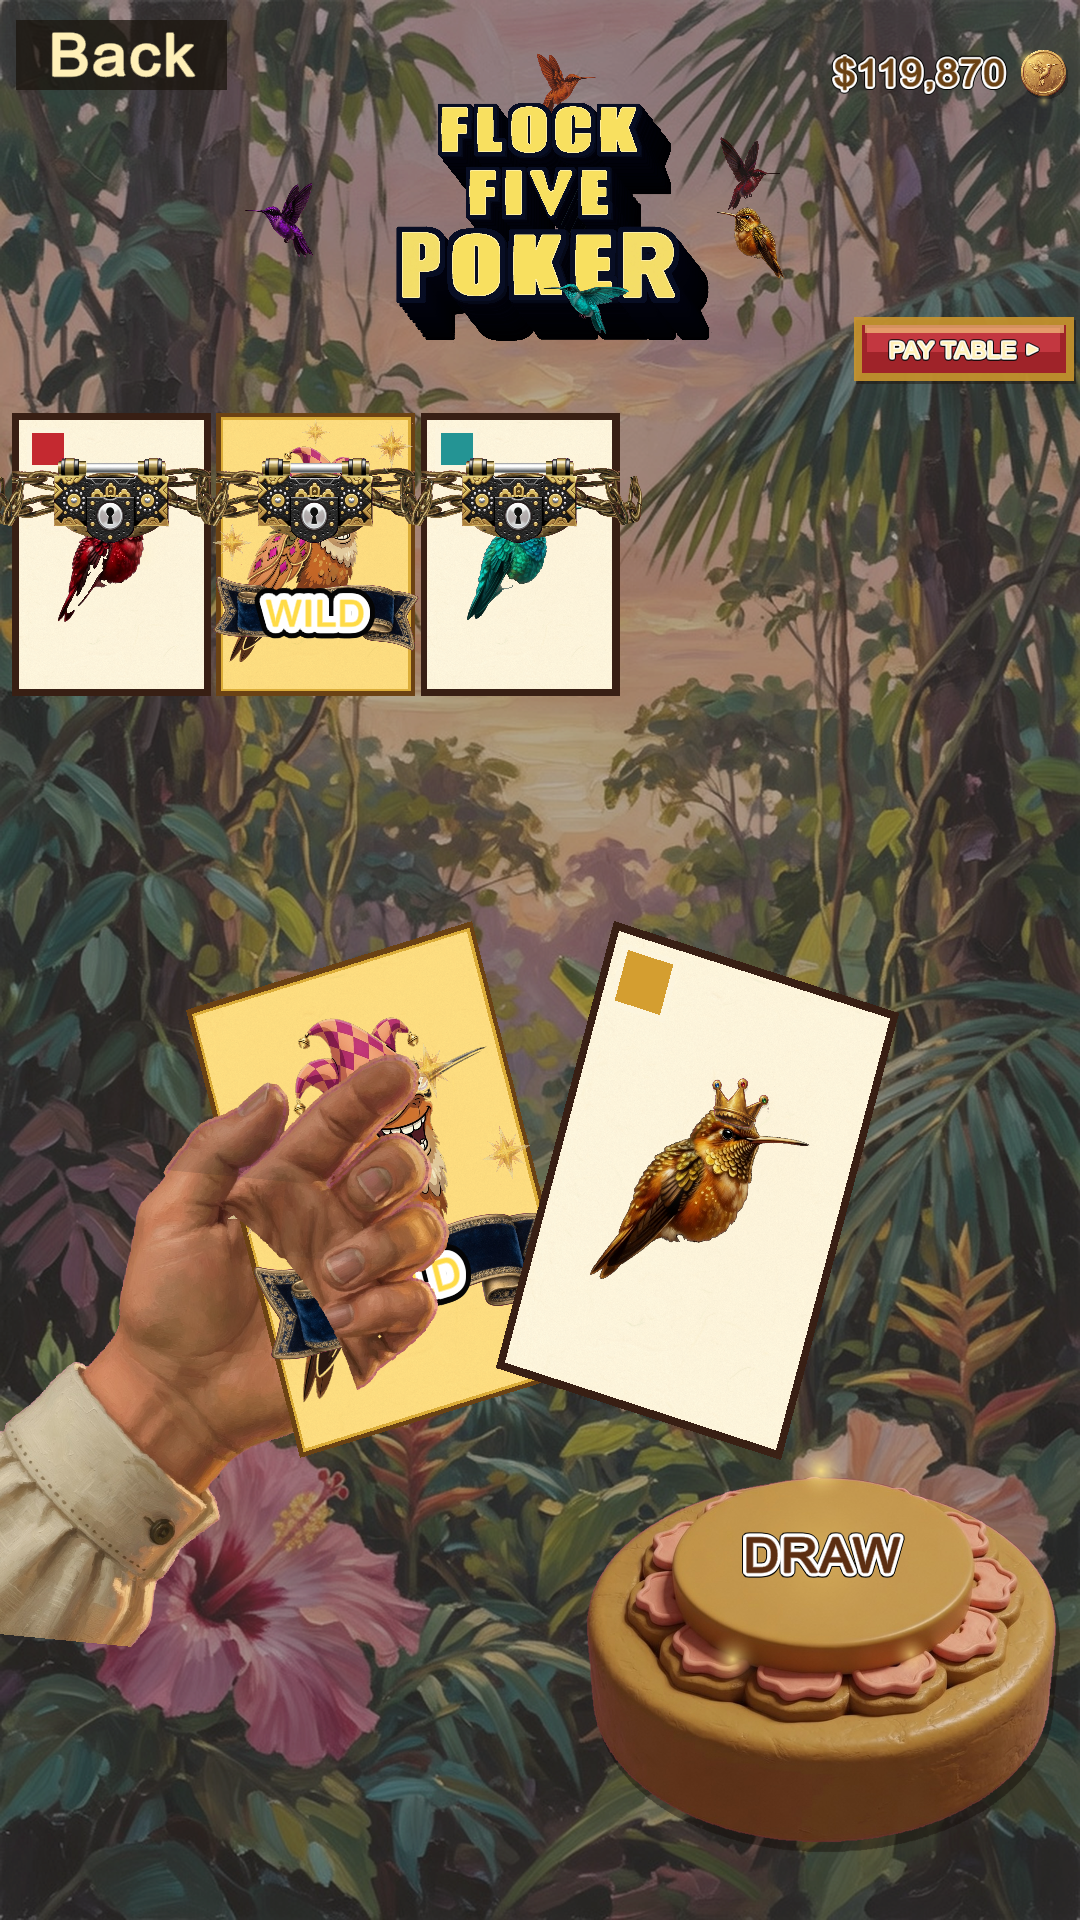
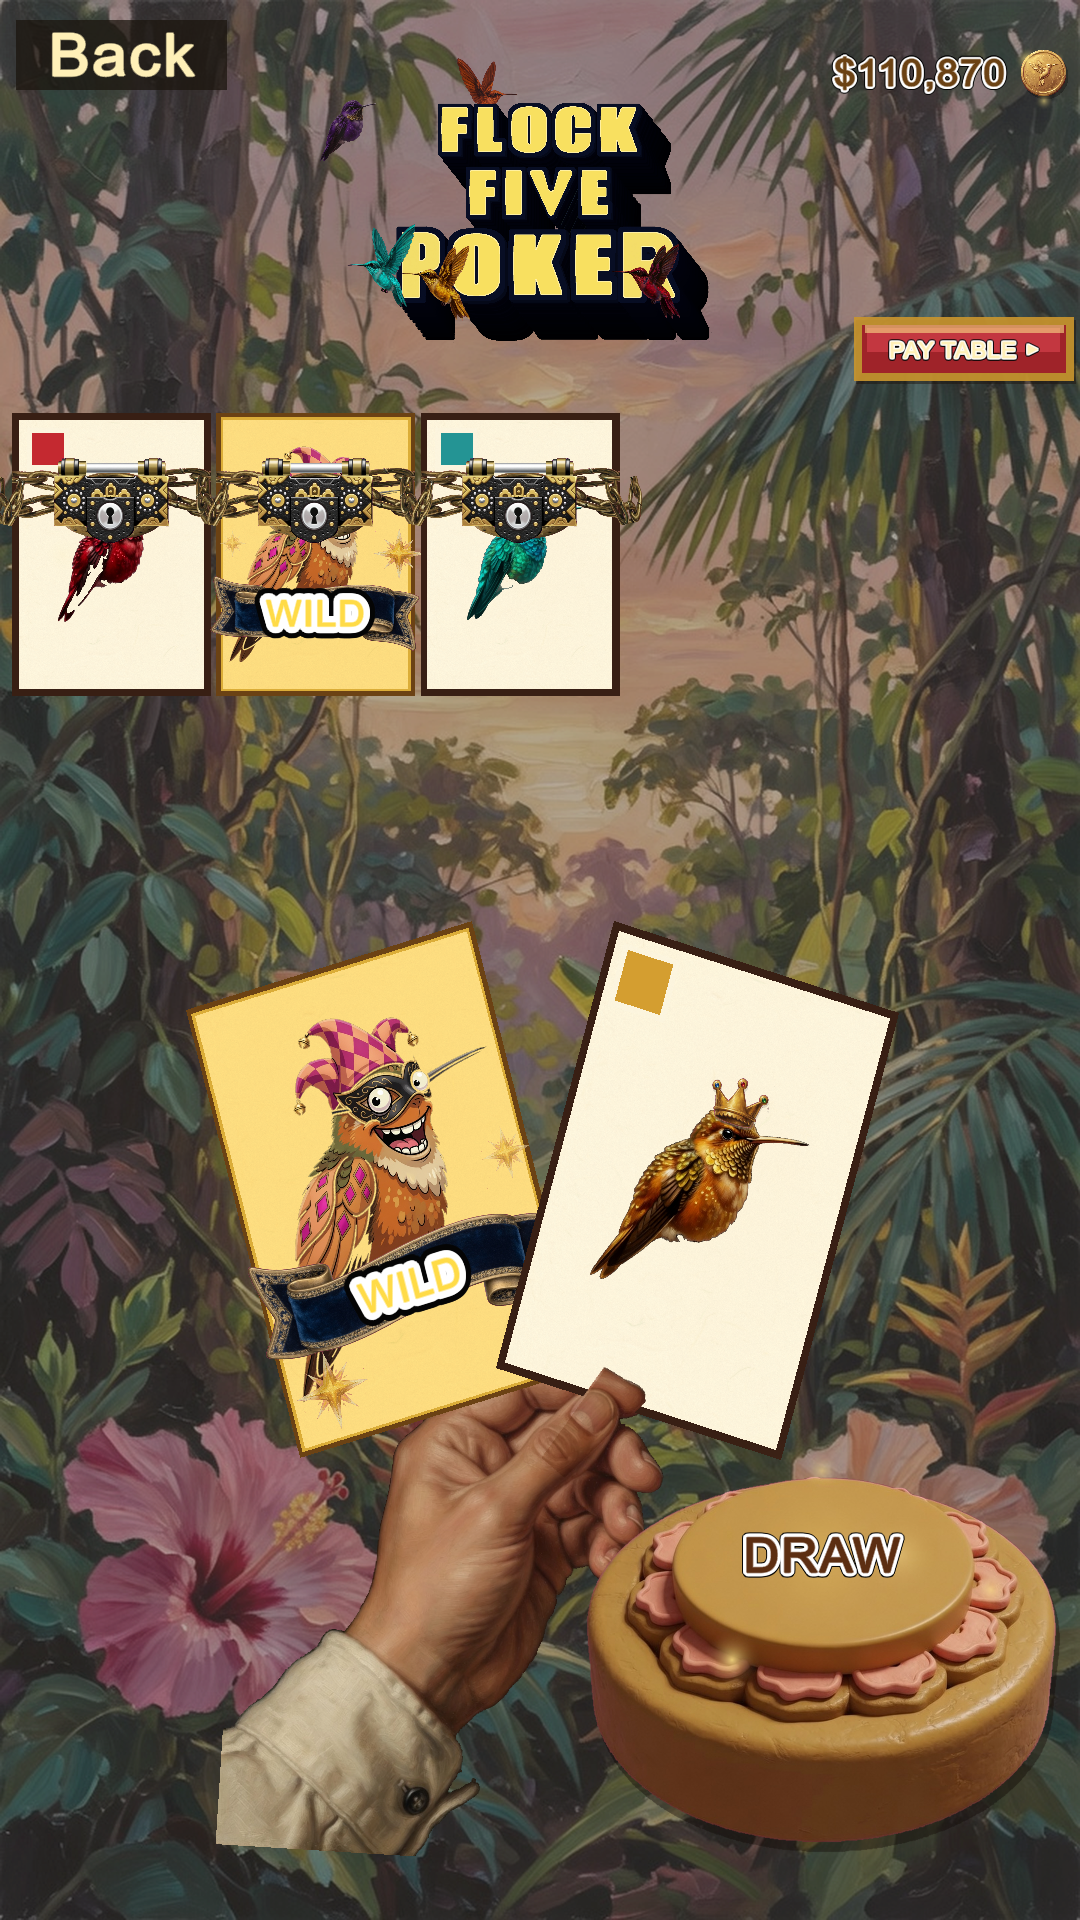
Poker: pass 3 pinch hold — new hand at fan bottoms
Throw out the open-palm overlay. New fan/front/pluck art pinches the
five-card fan at the bottom rims (thumb pad on cards, palm behind).
Pinch UV follows the pad; dest no longer slides off the grip. Breath
stays on the pivot. Avoid layout kept. Playrun DONE 3/3, mid=0.

diff --git a/Assets/_Project/Scripts/App/FlockFiveApp.cs b/Assets/_Project/Scripts/App/FlockFiveApp.cs
@@ -1011,7 +1011,7 @@ namespace FlockFive
         {
             System.IO.Directory.CreateDirectory(dir);
             SpriteCatalog.DropPokerArt();
-            Debug.Log("Flock Five: ShotPokerFaces start " + dir + " pass2-hold-b");
+            Debug.Log("Flock Five: ShotPokerFaces start " + dir + " pass3-pinch-hold");
             _home = HomeFace.Poker;
             _splash = true;
             _pokerPayOpen = false;
@@ -4892,9 +4892,9 @@ namespace FlockFive
         const float DealBumpT = 0.24f;
         const float PokerFanScale = 1.42f;
         const float PokerFanSpan = 0.46f;
-        // Finger pads, not palm — palm at 0.40/0.45 put cards through the hand.
-        const float PokerFanPinchU = 0.56f;
-        const float PokerFanPinchV = 0.64f;
+        // Thumb pad at the bottom-fan pinch (nail/pad of the new hold art).
+        const float PokerFanPinchU = 0.554f;
+        const float PokerFanPinchV = 0.435f;
         const float PokerFanHandAspect = 0.80f;
 
         static float PokerAliveBreathe() => Mathf.Sin(Time.unscaledTime * 1.18f);
@@ -5413,17 +5413,15 @@ namespace FlockFive
             float breathe = PokerAliveBreathe();
             float tick = PokerAliveTick();
             // Pads land on the remaining fan (tracks 1-card unhold, not row-center).
-            float pinchX = grip.center.x - grip.width * 0.10f + _pokerKick.x + 1.5f * breathe * alive;
-            float pinchY = grip.yMax - grip.height * 0.04f + _pokerKick.y
-                + (1.7f * breathe + 0.55f * tick) * alive;
+            // Breath only at the pinch pivot so pads stay on the bottom rims.
+            float pinchX = grip.center.x - grip.width * 0.10f + _pokerKick.x + 0.85f * breathe * alive;
+            float pinchY = grip.yMax - grip.height * 0.02f + _pokerKick.y
+                + (0.90f * breathe + 0.18f * tick) * alive;
             float x = pinchX - w * PokerFanPinchU;
             float y = pinchY - h * PokerFanPinchV + (1f - u) * h * 0.35f;
-            float flowerLeft = Screen.width * 0.52f;
-            if (x + w > flowerLeft)
-                x = flowerLeft - w;
             if (x < -w * 0.08f) x = -w * 0.08f;
-            float ang = 4.8f + 1.15f * breathe * alive;
-            float squash = 1f + 0.010f * breathe * alive;
+            float ang = 3.2f + 0.55f * breathe * alive;
+            float squash = 1f + 0.006f * breathe * alive;
             var prev = GUI.matrix;
             GUIUtility.RotateAroundPivot(ang, new Vector2(pinchX, pinchY));
             GUIUtility.ScaleAroundPivot(new Vector2(squash, 2f - squash), new Vector2(pinchX, pinchY));
